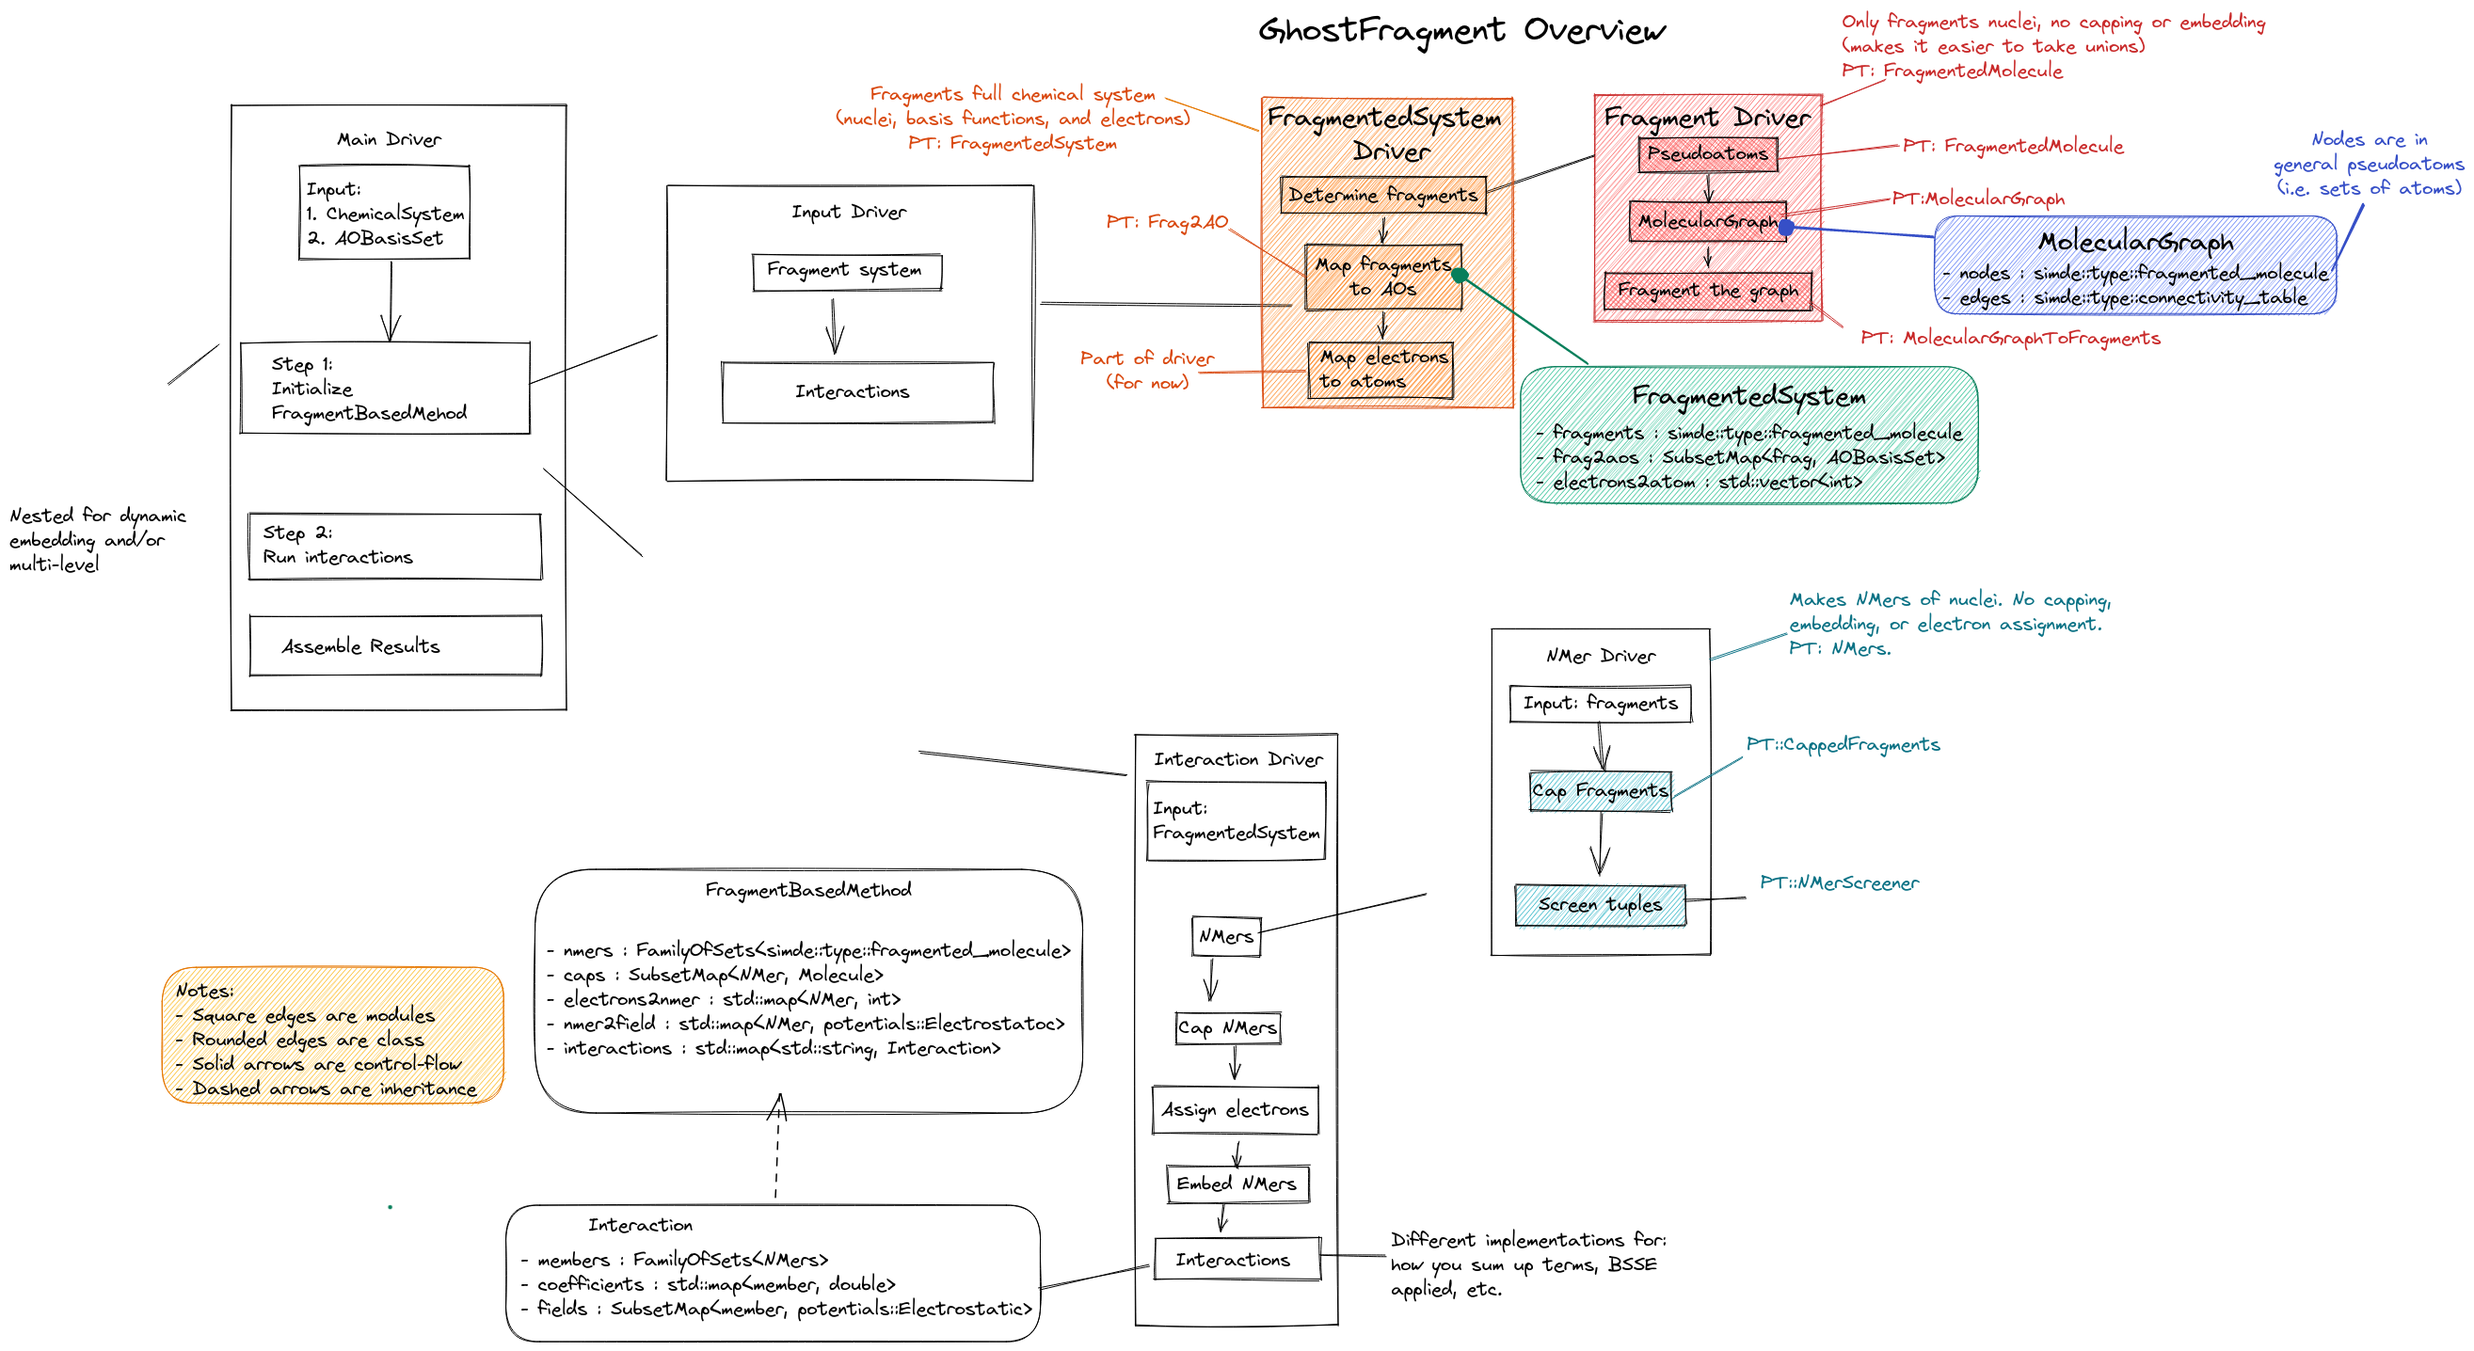
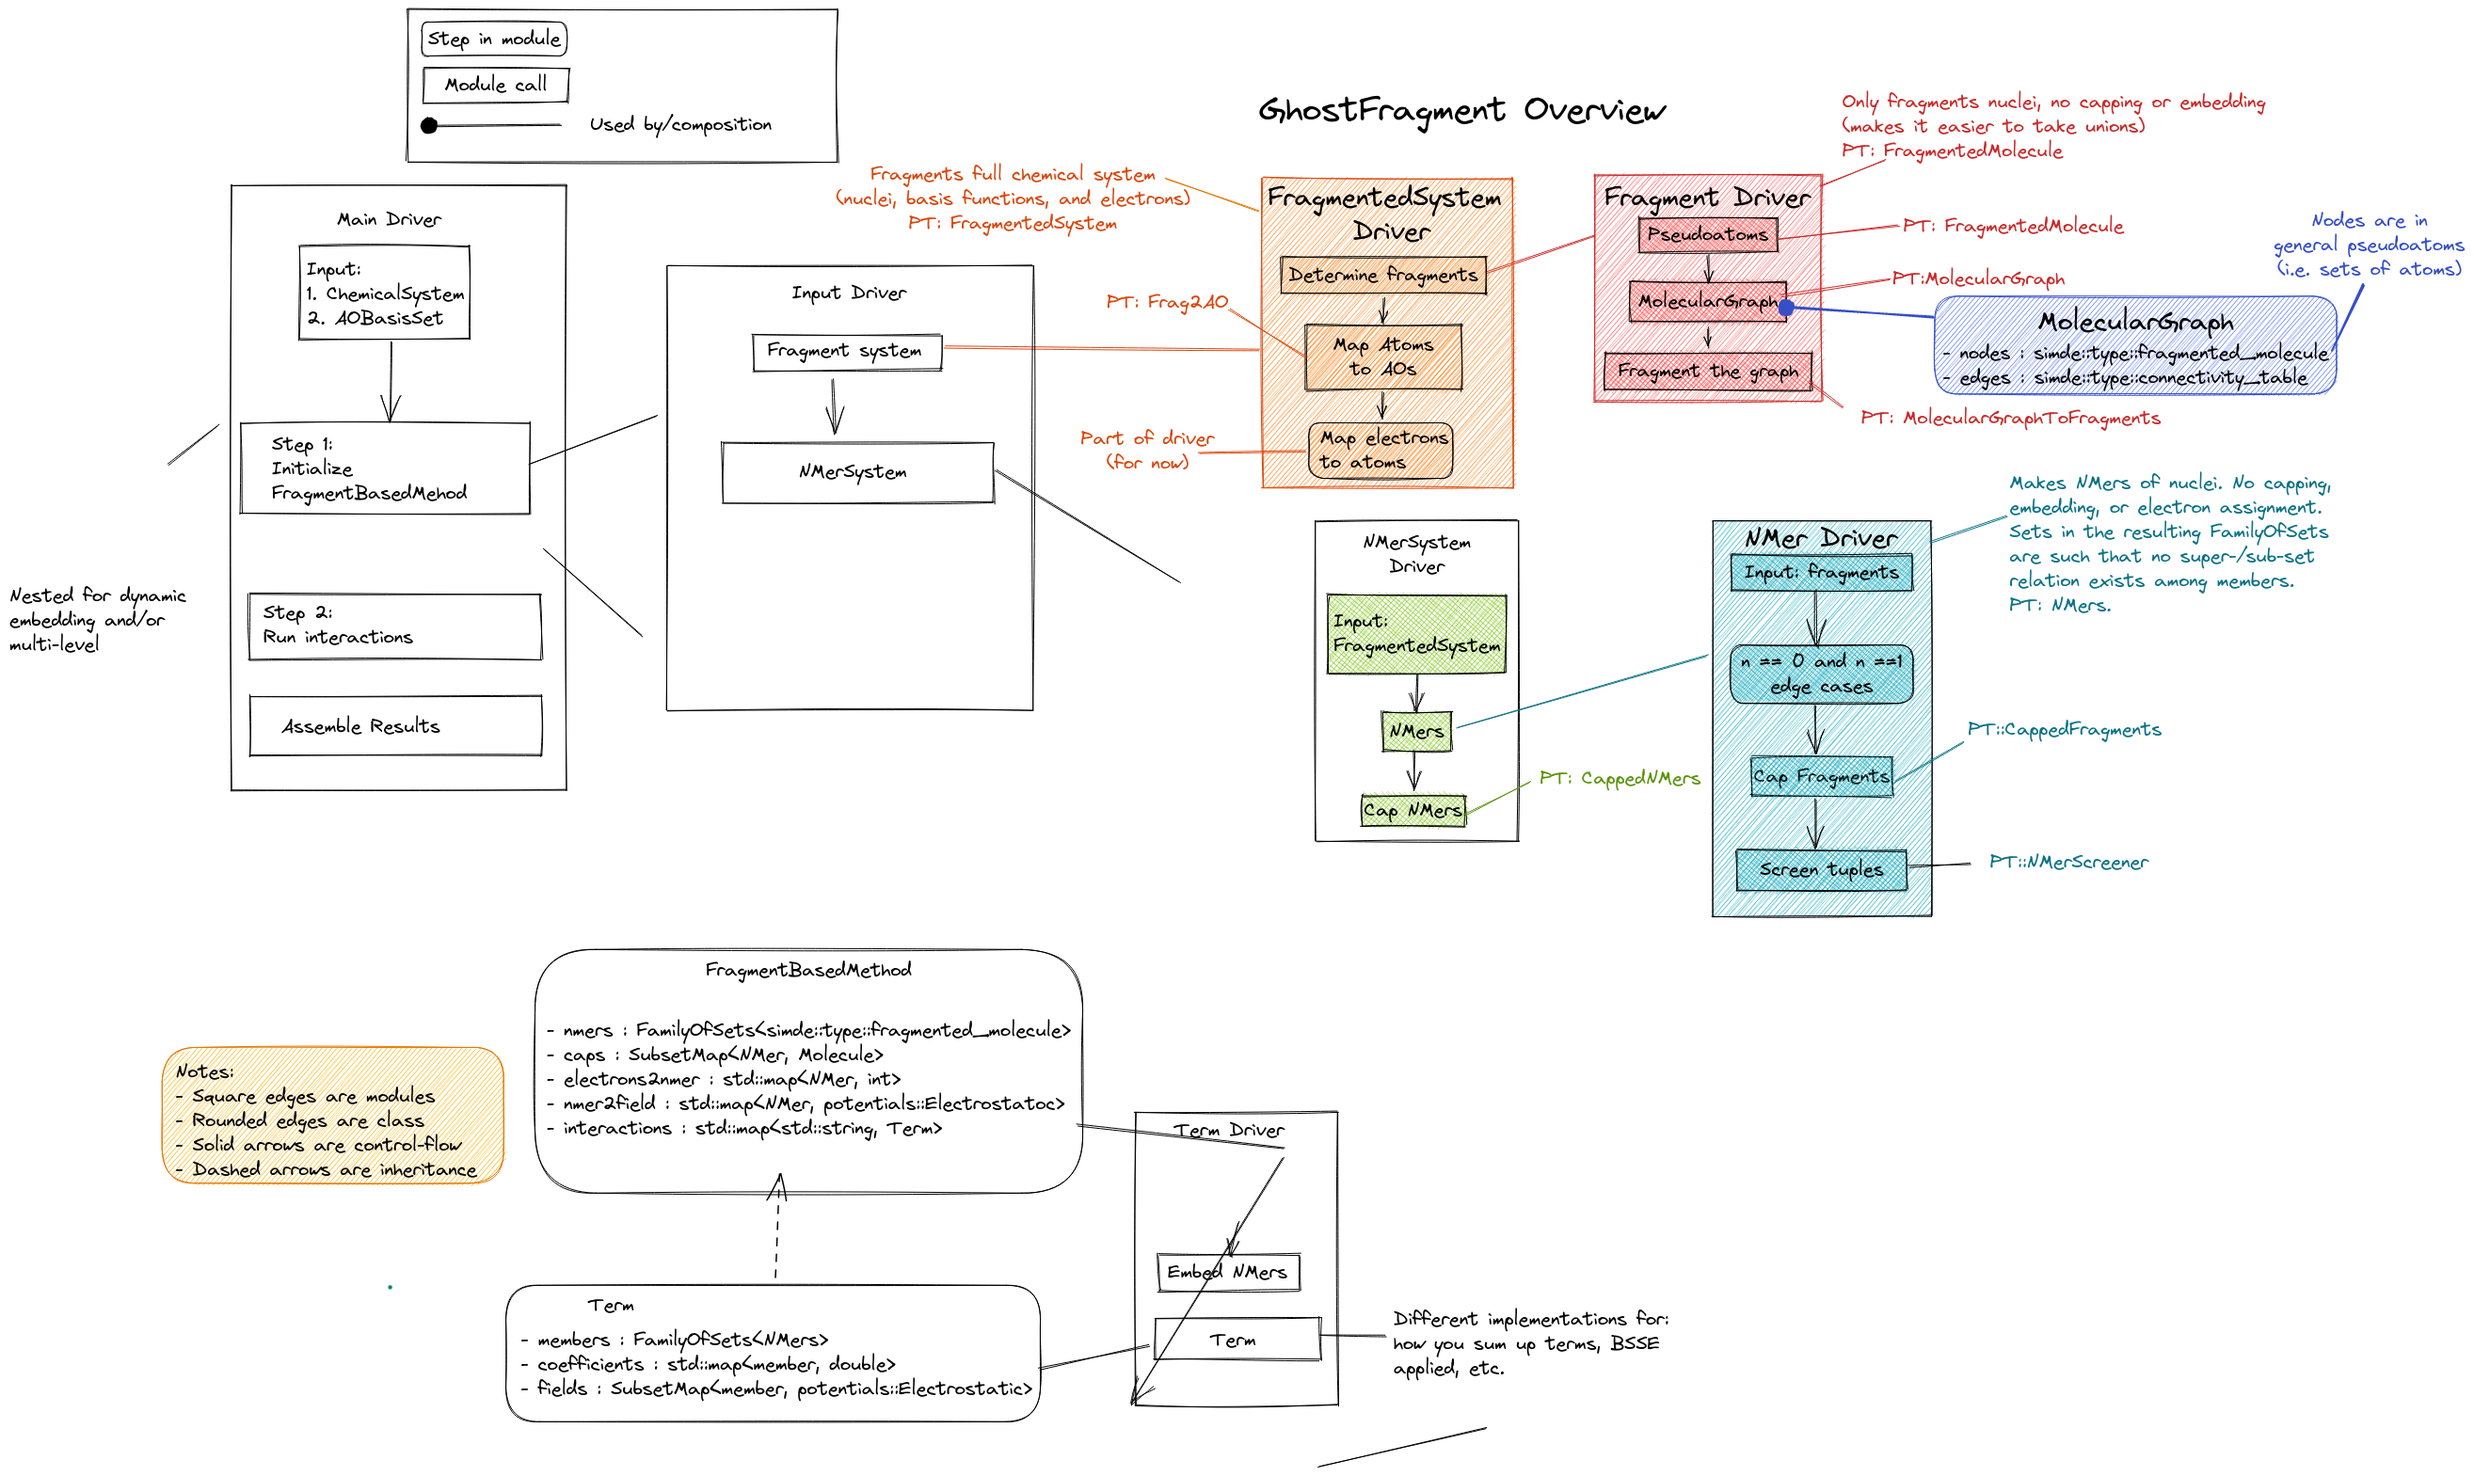
back-up [skip ci]

diff --git a/include/ghostfragment/nmer_system.hpp b/include/ghostfragment/nmer_system.hpp
@@ -1,42 +1,72 @@
-// #pragma once
+#pragma once
+#include "ghostfragment/fragmented_system.hpp"
+#include "ghostfragment/types.hpp"
+namespace ghostfragment {
+namespace detail_ {
+class NMerSystemPIMPL;
+} // namespace detail_
 
-// namespace ghostfragment {
-// namespace detail_ {
-// class NMerSystemPIMPL;
-// class NMerSystemReferencePIMPL;
-// } // namespace detail_
+/** @brief
+ *
+ */
+class NMerSystem {
+private:
+    using pimpl_type = detail_::NMerSystemPIMPL;
 
-// template<typename PimplType = detail_::NMerSystemReferencePIMPL>
-// class NMerSystemReference {
-// public:
-//     using system_type       = ;
-//     using ao_basis_set_type = ;
-//     using pimpl_type        = PimplType;
-//     using pimpl_pointer     = std::unique_ptr<pimpl_type>;
+public:
+    /// Type of a pointer to a PIMPL
+    using pimpl_pointer = std::unique_ptr<pimpl_type>;
 
-//     ~NMerSystemReference() noexcept;
+    /// Type of an object describing how the fragments were originally made
+    using fragmented_system_type = FragmentedSystem;
 
-// protected:
-//     friend class NMerSystem;
-//     NMerSystemReference(pimpl_pointer p);
+    /// Type of a read-only reference to the fragments
+    using const_fragmented_system_reference = const fragmented_system_type&;
 
-// private:
-//     pimpl_pointer m_pimpl_;
-// };
+    /// Type used to
+    using fragment_type = fragmented_system_type::fragment_type;
 
-// /** @brief
-//  *
-//  */
-// class NMerSystem {
-// private:
-//     using reference_pimpl_type = detail_::NMerSystemReferencePIMPL;
+    /// Type of a read-only reference to a fragment
+    using const_fragment_reference =
+      fragmented_system_type::const_fragment_reference;
 
-// public:
-//     using reference = NMerSystemReference<>;
+    /// Type of a read-only reference to a subset of the supersystem's AO basis
+    using const_ao_set_reference =
+      fragmented_system_type::const_ao_set_reference;
 
-//     using const_reference =
-//       NMerSystemReference<const detail_::NMerSystemReferencePIMPL>;
-//     NMerSystem();
-// };
+    /// Type used for modeling, non-negative integers
+    using size_type = fragmented_system_type::size_type;
 
-// } // namespace ghostfragment
+    /// Type used to describe the set of N-Mers
+    using nmer_set_type = type::nmers;
+
+    /// Type used to describe an N-Mer
+    using nmer_type = typename nmer_set_type::value_type;
+
+    /// Type used to describe a read-only referenc to an N-Mer
+    using const_nmer_reference = const nmer_type&;
+
+    using capped_nmers = std::map<nmer_type, fragment_type>;
+
+    NMerSystem() noexcept;
+
+    NMerSystem(fragmented_system_type frags, capped_nmers nmers);
+
+    NMerSystem(pimpl_pointer pimpl) noexcept;
+
+    ~NMerSystem() noexcept;
+
+    const_fragmented_system_reference fragments() const;
+
+    const_ao_set_reference ao_basis_set(const_nmer_reference nmer) const;
+    const_ao_set_reference ao_basis_set(const_fragment_reference frag) const;
+
+    size_type n_electrons(const_nmer_reference nmer) const;
+    size_type n_electrons(const_fragment_reference frag) const;
+
+private:
+    /// The object actually implementing this class.
+    pimpl_pointer m_pimpl_;
+};
+
+} // namespace ghostfragment

diff --git a/src/ghostfragment/nmer_system.cpp b/src/ghostfragment/nmer_system.cpp
@@ -1,20 +1,42 @@
-// #include "ghostfragment/nmer_system.hpp"
+#include "ghostfragment/nmer_system.hpp"
 
-// namespace ghostfragment {
-// namespace detail_ {
+namespace ghostfragment {
+namespace detail_ {
 
-// class NMerSystemPIMPL {
-// public:
-//     using parent_type       = NMerSystem;
-//     using capped_nmers      = ;
-//     using fragment_set_type = typename parent_type::fragmented_system_type;
-//     using atom2nelectrons   = ;
-//     using atom2aos          = ;
+class NMerSystemPIMPL {
+public:
+    using parent_type       = NMerSystem;
+    using capped_nmers      = typename parent_type::capped_nmers;
+    using fragment_set_type = typename parent_type::fragmented_system_type;
 
-// private:
-//     capped_nmers m_nmers_;
-//     fragment_set_type m_frags_;
-// };
+    NMerSystemPIMPL(capped_nmers nmers, fragment_set_type frags) :
+      m_nmers_(std::move(nmers)), m_frags_(std::move(frags)) {}
 
-// } // namespace detail_
-// } // namespace ghostfragment
+private:
+    capped_nmers m_nmers_;
+    fragment_set_type m_frags_;
+};
+
+} // namespace detail_
+
+namespace {
+
+template<typename... Args>
+auto make_pimpl(Args&&... args) {
+    return std::make_unique<detail_::NMerSystemPIMPL>(
+      std::forward<Args>(args)...);
+}
+
+} // namespace
+
+NMerSystem::NMerSystem() noexcept = default;
+
+NMerSystem::NMerSystem(fragmented_system_type frags, capped_nmers nmers) :
+  NMerSystem(make_pimpl(std::move(frags), std::move(nmers))) {}
+
+NMerSystem::NMerSystem(pimpl_pointer pimpl) noexcept :
+  m_pimpl_(std::move(pimpl)) {}
+
+NMerSystem::~NMerSystem() noexcept = default;
+
+} // namespace ghostfragment
